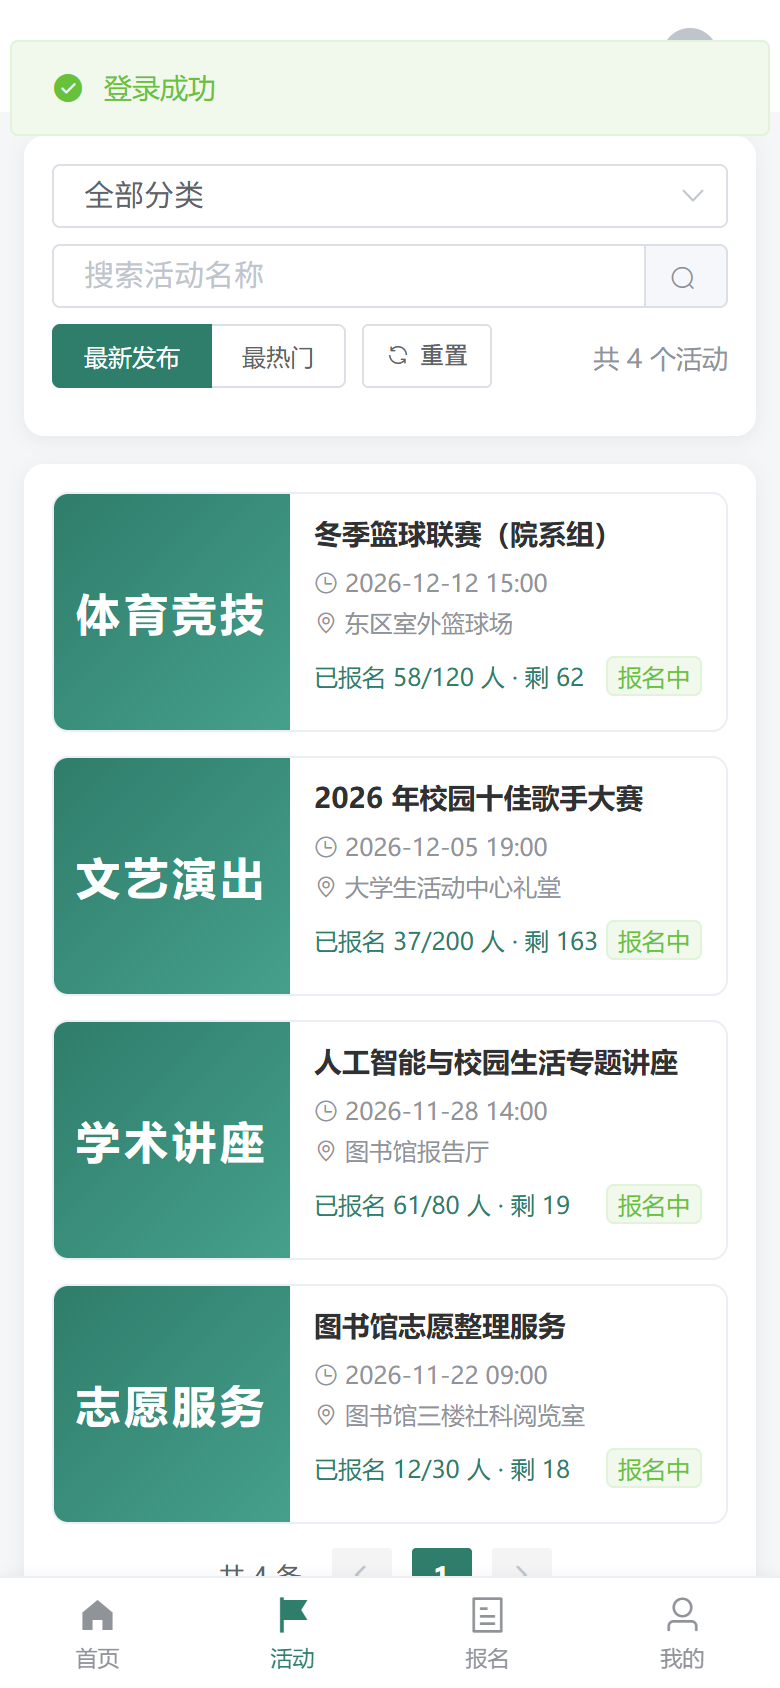
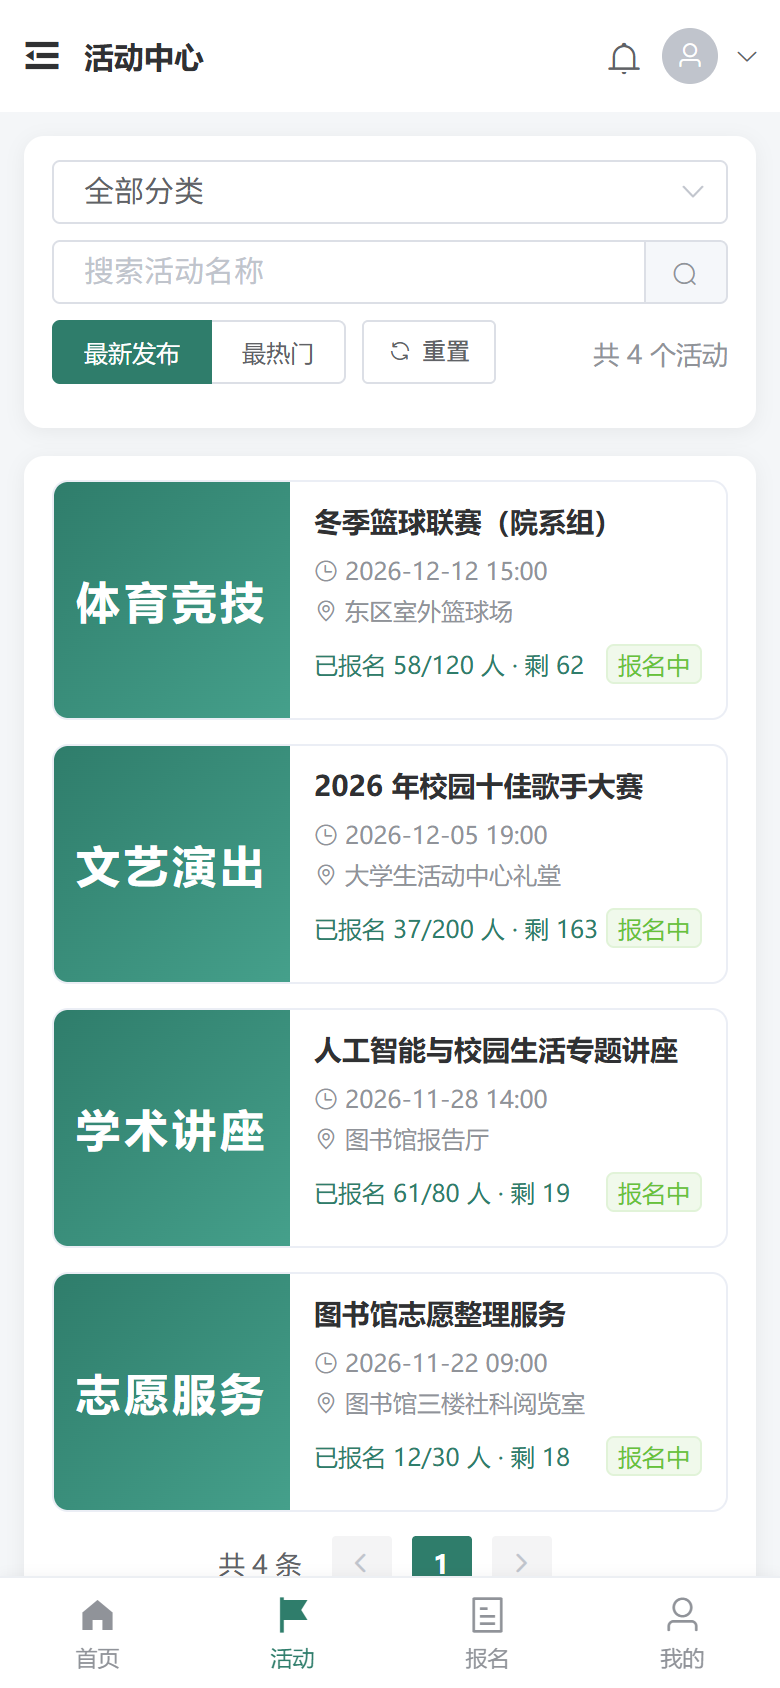
移动端上线：Vercel 重新部署、线上 390/1440 复核、部署文档补记录

diff --git a/doc/00-项目总体规划.md b/doc/00-项目总体规划.md
@@ -843,4 +843,5 @@ Open objectives: 学校模板格式对齐（等用户提供模板）、查重/AI
 - 页面：登录、注册、首页、活动中心、详情、我的报名（卡片）、我的评价（卡片）、消息、个人中心；组织者我的活动、报名名单、签到、发布、数据；管理员审核、用户、分类、公告、统计、参数。
 - 关键坑：① `el-row` 的 `::before/::after` 清浮动伪元素在 grid 容器里成为两个 grid item，导致统计卡错位，需 `display:none`；② 通用 `[class*="el-col-"]{width:100%}` 会压坏使用 `xs/sm/md` 的统计页，必须排除响应式断点类；③ 详情页操作卡用 `position:sticky` 会盖住"质量分"，改回正常流；④ PDF 被 WPS 打开时 `ExportAsFixedFormat` 报 `HRESULT E_FAIL`，先关进程或用临时文件再覆盖。
 - 验证：`tools/pptr/mobile-shots.js` 在 390×844 逐页截图（`doc/mobile/`，20 张（签到名单、分类、公告、参数与 404 页另行逐页核对卡片数与溢出），`overflowX` 全部为 0）；`WIDTH=768` 输出 `doc/mobile768/`（13 张，含组织者与管理员的 768 回归）；`desktop-shots.js` 输出 `doc/desktop/`（1440×900，3 张），桌面布局未降级。
+- 上线：`68b2091` 已推送并触发 Render 重建，Vercel 重新部署（`campus.taikong.de`），线上 390 与 1440 复核通过（详见 doc/10 第七节）。
 - 产物：单 jar 重打（48.2MB，含移动端样式）；论文 61 页 / 2.60 万字（新增 5.3.1 移动端适配，3.3 与 7.2 同步改写）；PPT 第 10 页改为"桌面 + 手机"双图并附四条要点；讲稿第 10 页补一句移动端；README 增"移动端"一节；`doc/09` 更新页数与字数。

diff --git a/doc/10-线上部署现状.md b/doc/10-线上部署现状.md
@@ -87,3 +87,11 @@ $h = @{ Authorization = "Bearer $($login.data.token)" }
 ```
 
 浏览器：打开前端 → 登录 → 活动中心 → 报名 → 我的报名 →（组织者）签到管理/导出名单 →（管理员）平台统计。
+
+## 七、移动端版本上线记录（2026-11-21 17:2x）
+
+- 代码：`68b2091` 推送到 `main`（`20c8144..68b2091`），Render 自动重建。
+- 前端：`vercel deploy --prod` → 新部署 `campus-activity-ianqc58uu-tk-rrrrrr.vercel.app`，别名 `https://campus.taikong.de` 指向新构建。
+- 产物核对：首页引用 `/js/app.c3c8a9a5.js`；`/css/app.c177d18a.css` 含 `768px` 与 `.m-card` 规则，说明移动端样式已进入线上包。
+- 线上移动端复核（390×844，无头 Chrome 走代理）：登录成功，首页、活动中心、我的报名均 `overflowX=0`，页面为抽屉 + 底部导航布局；首轮登录曾因 Render 免费实例冷启动超过脚本 30 秒超时，把等待放宽到 120 秒后通过。
+- 桌面复核（1440×900）：19 条路由（含 404）`overflowX` 全部为 0，表格仍在、移动卡片隐藏。
